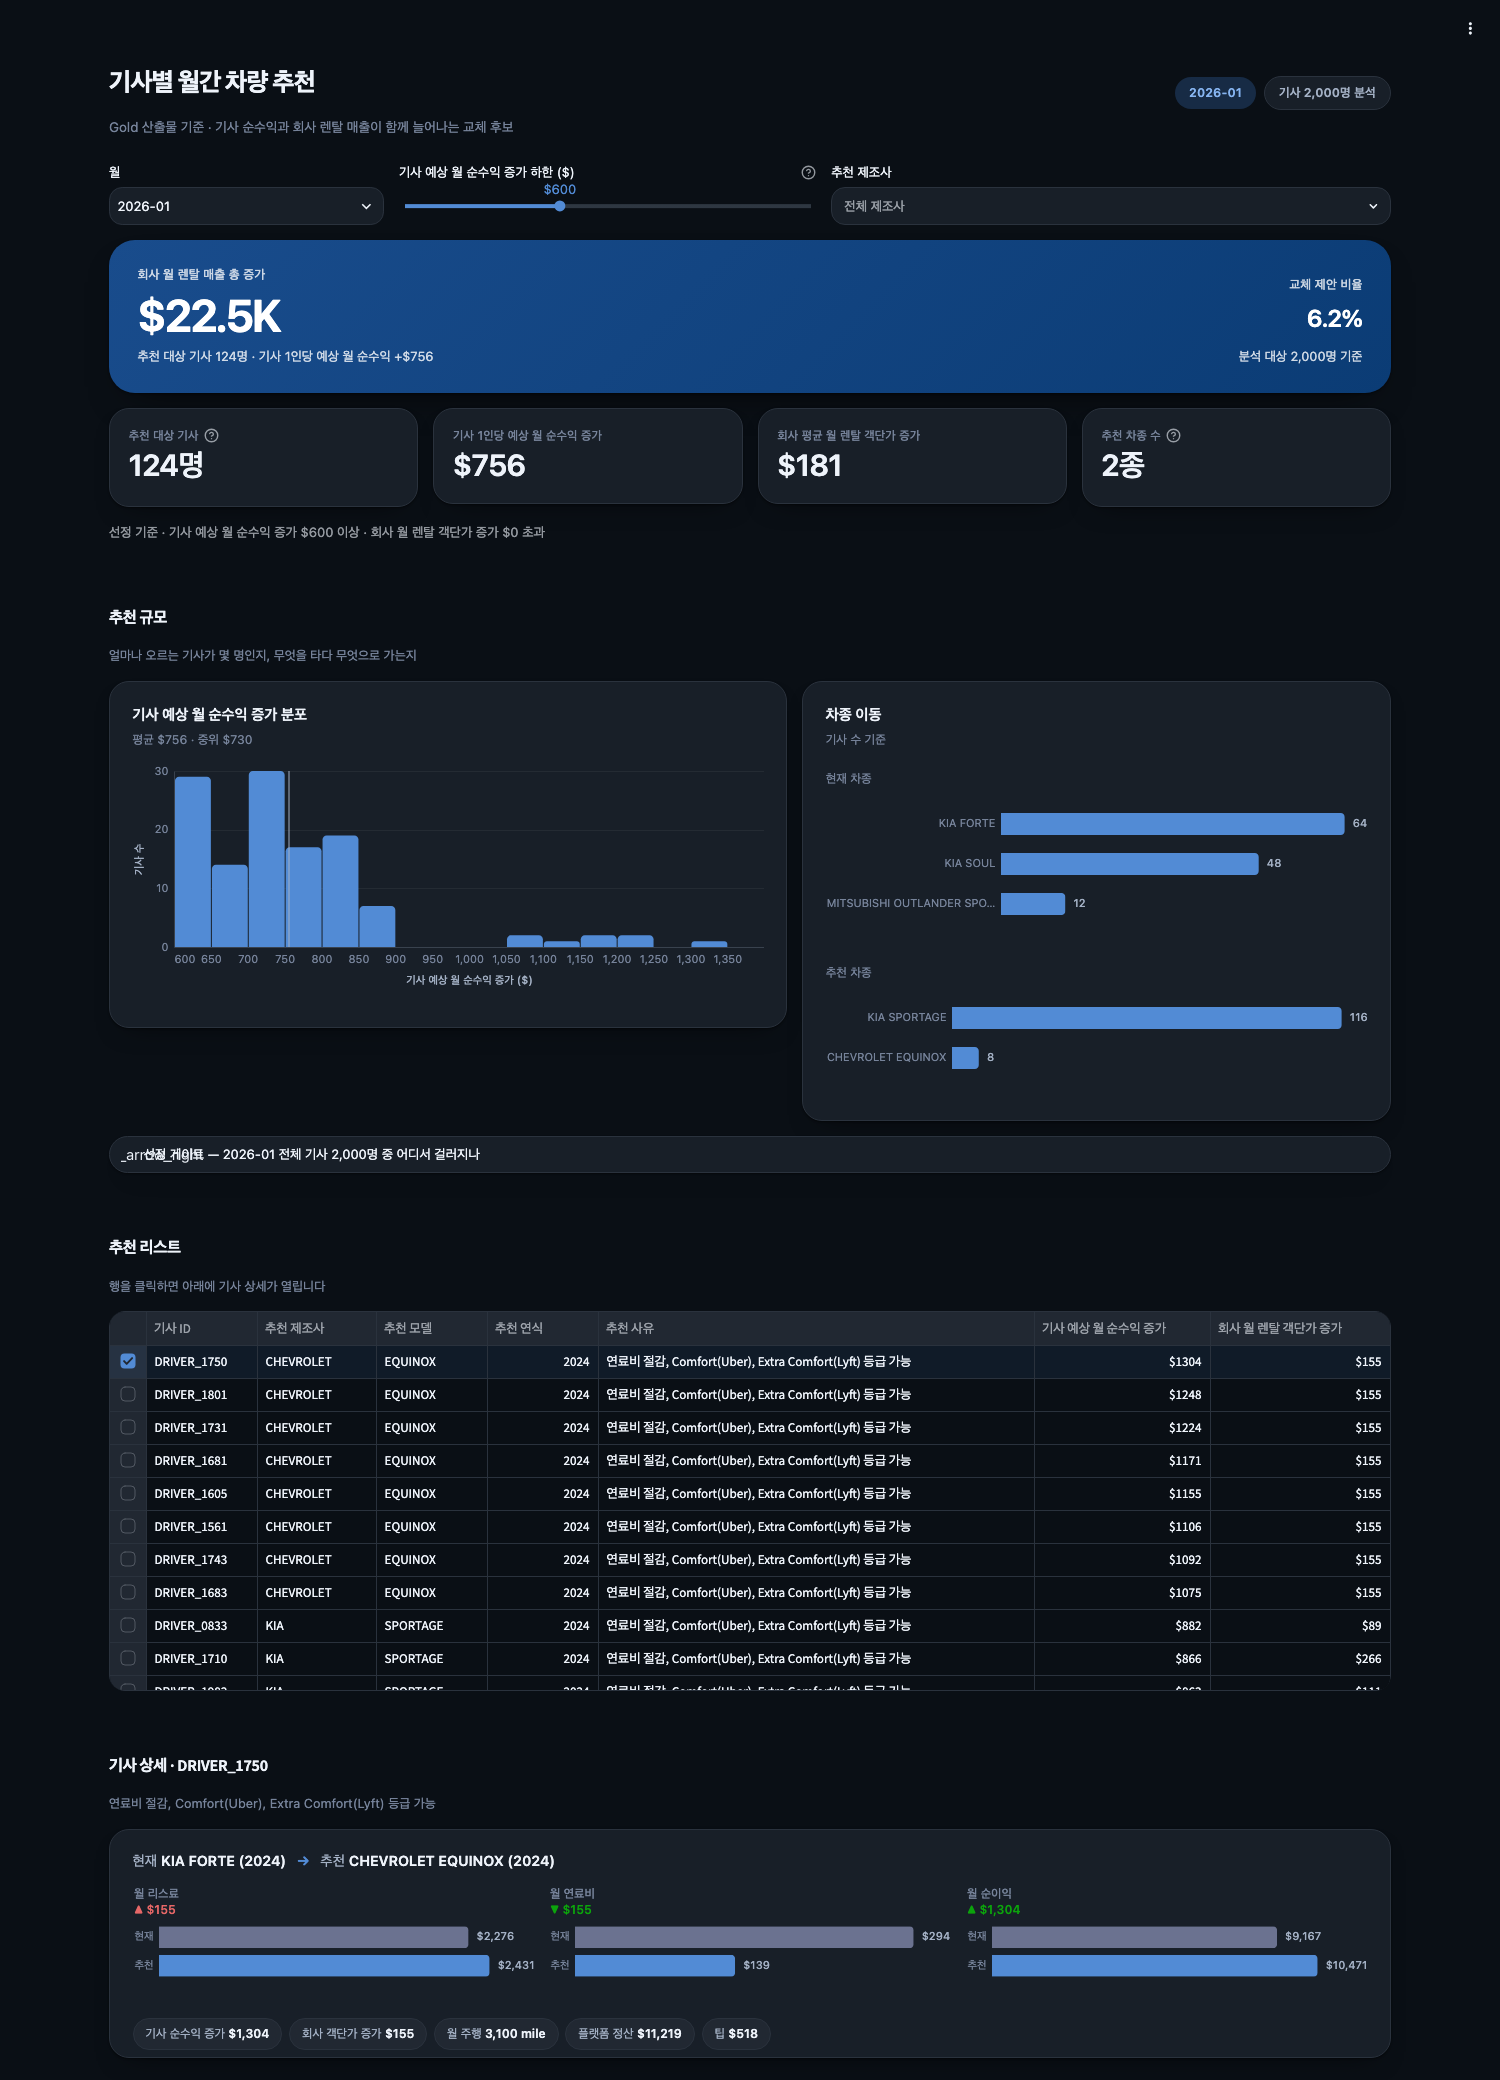
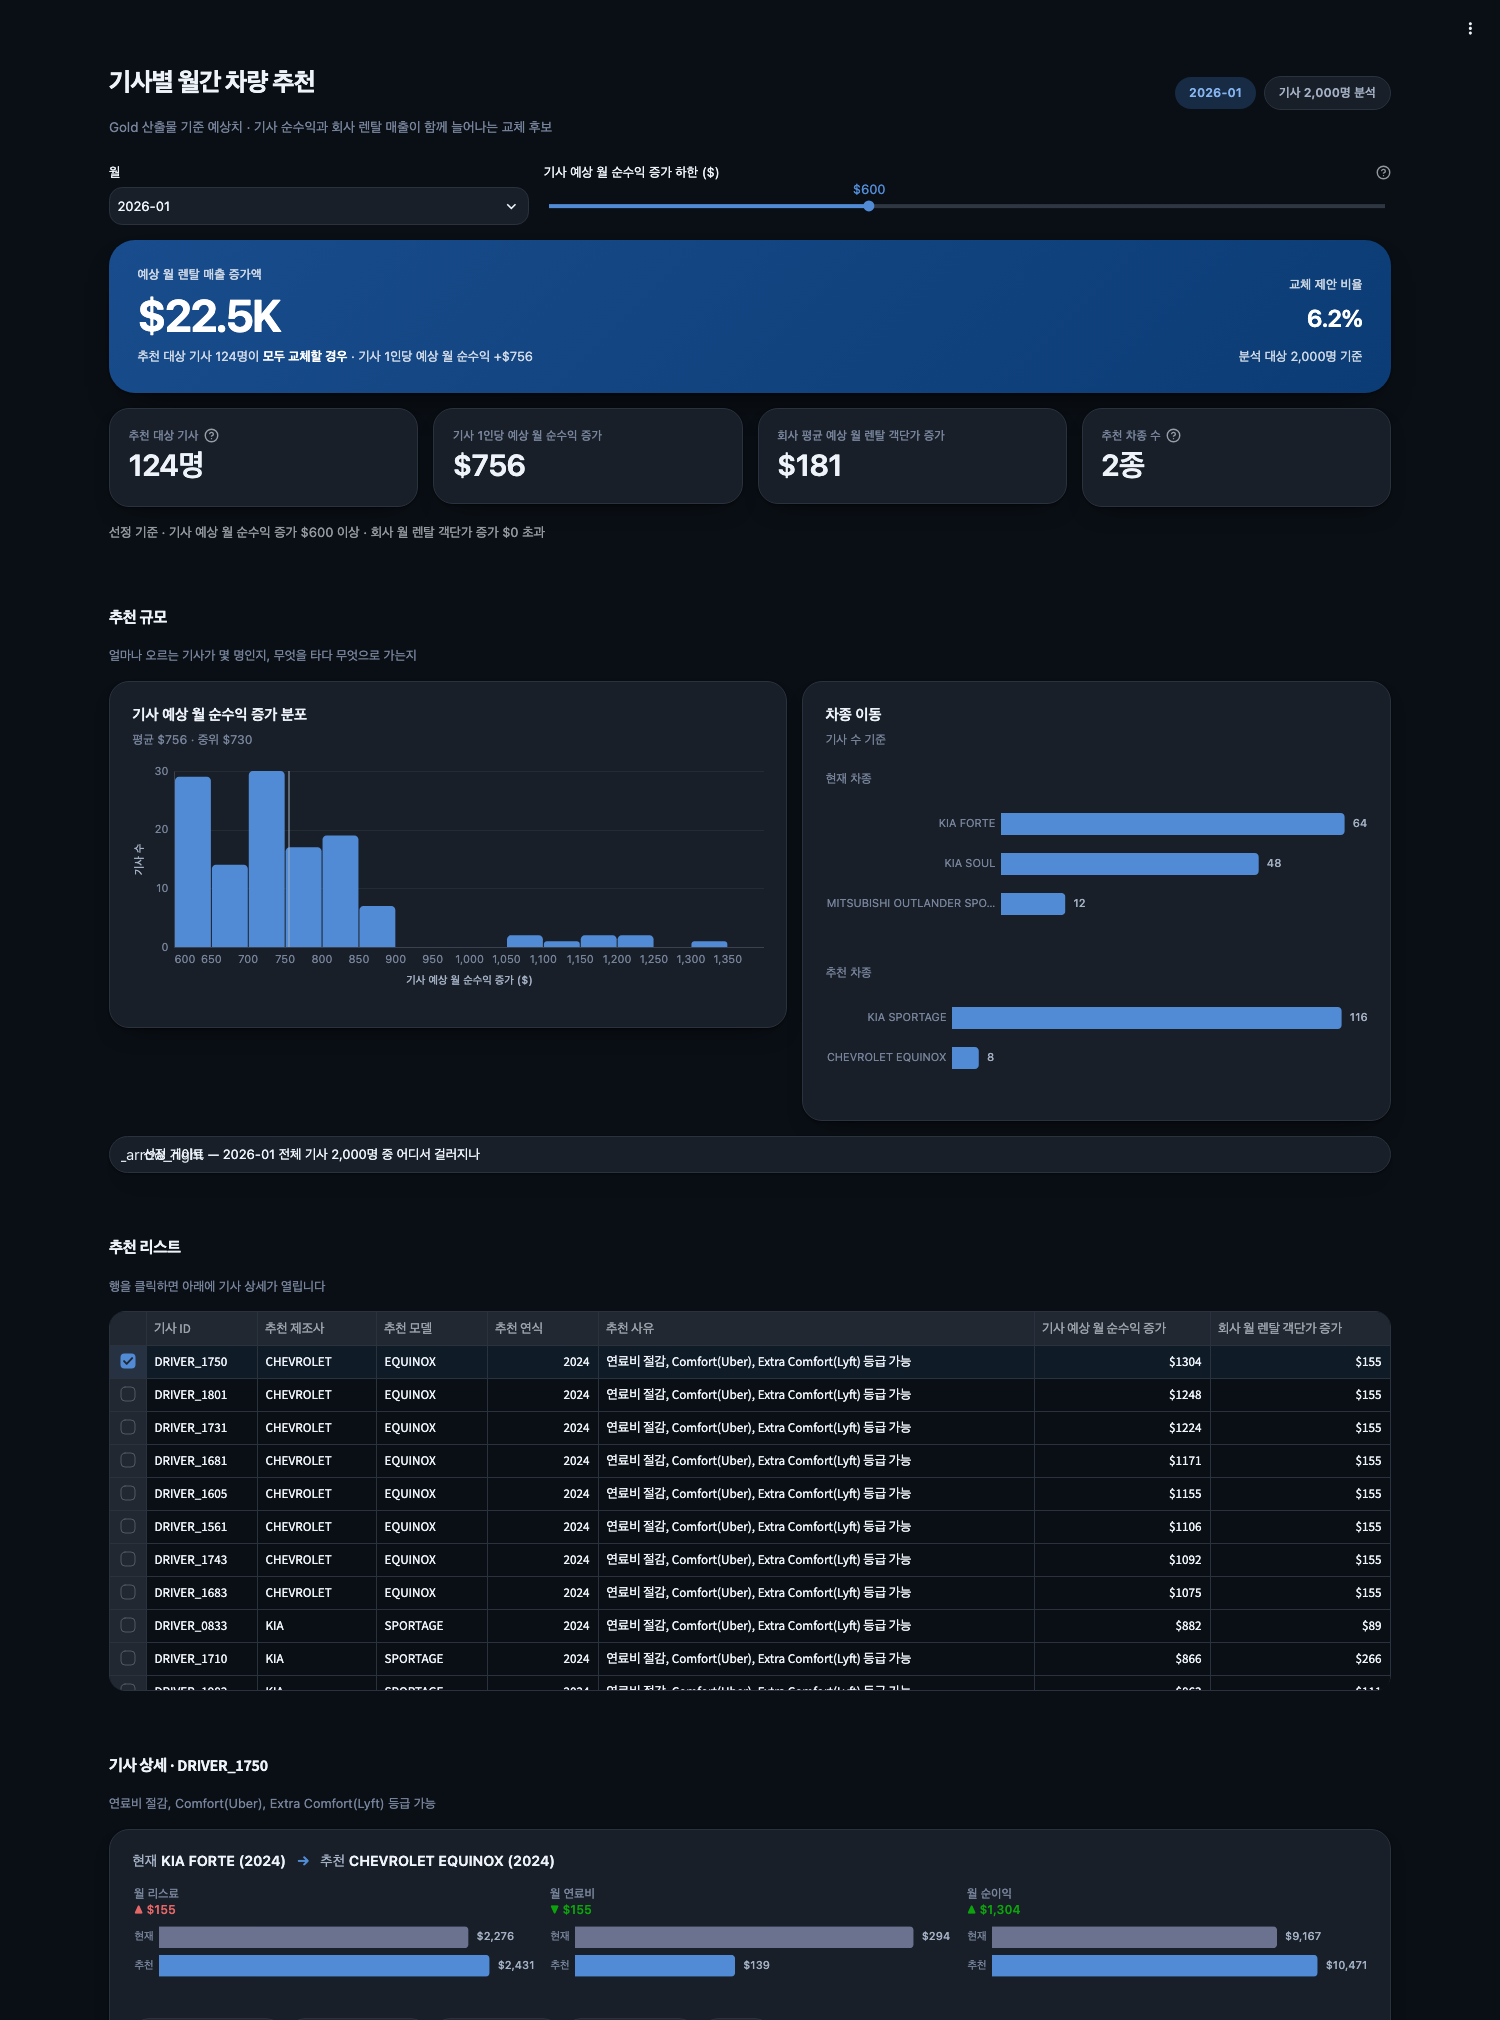
fix(dashboard): 히어로 지표가 예상치·전원 교체 가정임을 드러내기
리뷰 반영입니다.

- "회사 월 렌탈 매출 총 증가" → "예상 월 렌탈 매출 증가액" 으로 바꾸고,
  추천 대상 기사가 모두 교체할 경우의 값임을 부제에 적었습니다.
  총액만 크게 띄우면 확정 매출로 읽힙니다.
- 지표 타일과 부제에도 "예상" 을 붙였습니다.
- 추천 제조사 필터를 제거했습니다. 추천 차종이 2종뿐이라 필터가
  정보를 주지 않습니다.

필터가 없어지면서 전월 대비 델타의 기준선 불일치(#769)도 함께
사라집니다 — 현재 달과 비교 달이 같은 조건으로 계산됩니다.

diff --git a/main/dashboard/app.py b/main/dashboard/app.py
@@ -96,7 +96,7 @@ def _head(period: str, generated_rows: int) -> None:
         <div class="dash-head">
           <div>
             <h1>기사별 월간 차량 추천</h1>
-            <p>Gold 산출물 기준 · 기사 순수익과 회사 렌탈 매출이 함께 늘어나는 교체 후보</p>
+            <p>Gold 산출물 기준 예상치 · 기사 순수익과 회사 렌탈 매출이 함께 늘어나는 교체 후보</p>
           </div>
           <div style="display:flex; gap:.5rem; align-items:center;">
             <span class="pill">{period}</span>
@@ -126,10 +126,11 @@ def _hero(
         f"""
         <div class="hero">
           <div>
-            <p class="hero__label">회사 월 렌탈 매출 총 증가</p>
+            <p class="hero__label">예상 월 렌탈 매출 증가액</p>
             <p class="hero__value">{_money(total_revenue_increase)}</p>
             <p class="hero__note">
-              추천 대상 기사 {driver_count:,}명 · 기사 1인당 예상 월 순수익 +${avg_profit:,.0f}
+              추천 대상 기사 {driver_count:,}명이 <b>모두 교체할 경우</b>
+              · 기사 1인당 예상 월 순수익 +${avg_profit:,.0f}
             </p>
           </div>
           <div class="hero__side">
@@ -198,7 +199,7 @@ def render() -> None:
     head_slot = st.container()
 
     # ── 필터 한 줄: 아래 모든 카드·차트·표가 이 값으로 스코프된다 ──
-    f1, f2, f3 = st.columns([1, 1.5, 2], vertical_alignment="bottom")
+    f1, f2 = st.columns([1, 2], vertical_alignment="bottom")
     period = f1.selectbox("월", periods)
 
     report_row = report[report["year_month"] == period].iloc[0]
@@ -216,10 +217,6 @@ def render() -> None:
     )
 
     scope = recommendation_scope(suggestion, aggregation, period, threshold)
-    makers = sorted(scope["manufacturer"].unique()) if not scope.empty else []
-    picked_makers = f3.multiselect("추천 제조사", makers, placeholder="전체 제조사")
-    if picked_makers:
-        scope = scope[scope["manufacturer"].isin(picked_makers)].reset_index(drop=True)
 
     with head_slot:
         _head(period, len(month_suggestion))
@@ -258,7 +255,7 @@ def render() -> None:
         delta=_delta(agg["avg_profit"], prev_agg["avg_profit"] if prev_agg else None),
     )
     t3.metric(
-        "회사 평균 월 렌탈 객단가 증가",
+        "회사 평균 예상 월 렌탈 객단가 증가",
         f"${agg['avg_revenue']:,.0f}",
         delta=_delta(agg["avg_revenue"], prev_agg["avg_revenue"] if prev_agg else None),
     )
@@ -273,7 +270,7 @@ def render() -> None:
     )
 
     if scope.empty:
-        st.info("이 조건에는 해당하는 기사가 없습니다. 하한을 낮추거나 제조사 필터를 지워 보세요.")
+        st.info("이 조건에는 해당하는 기사가 없습니다. 하한을 낮춰 보세요.")
         return
 
     # ── 분포 · 차종 · 사유 ──

diff --git a/main/dashboard/theme.py b/main/dashboard/theme.py
@@ -215,6 +215,7 @@ def inject_css(theme_mode: str | None = None) -> None:
             letter-spacing: -.035em; font-variant-numeric: proportional-nums;
         }}
         div.hero p.hero__note {{ margin: .6rem 0 0; font-size: .86rem; color: rgba(255,255,255,.8); }}
+        div.hero p.hero__note b {{ color: #fff; font-weight: 600; }}
 
         /* ── 섹션 제목 ── */
         div.sect {{ margin: 2.3rem 0 .95rem; }}
